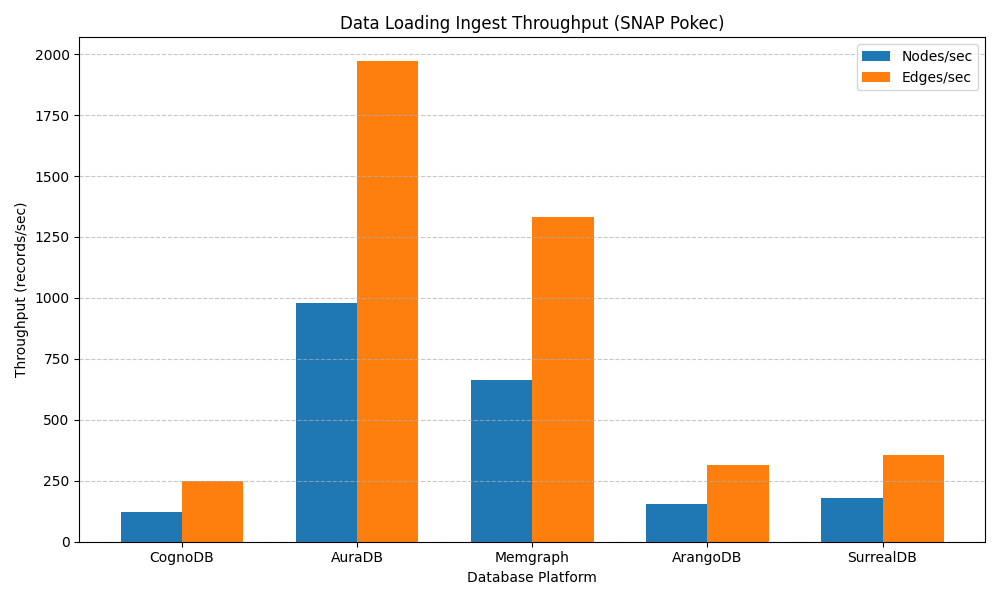
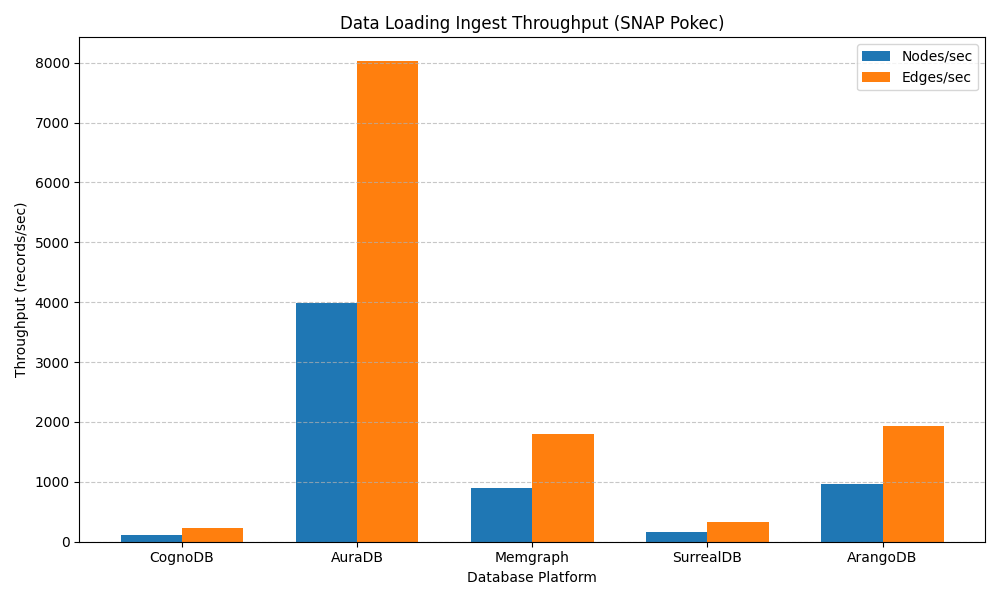
fix: pin deps

diff --git a/rebuild.py b/rebuild.py
@@ -30,7 +30,7 @@ def rebuild_single_service(db_key, nodes, edges, batch_size=1000):
         raise ValueError(f"Unknown database service '{db_key}'. Available: cognodb, auradb, memgraph, surrealdb (or surreal), arangodb (or arango)")
 
     adapter_cls = ADAPTER_MAP[key_clean]
-    adapter = adapter_cls()
+    adapter = adapter_cls(apply_cpu_throttling=False) if key_clean == 'cognodb' else adapter_cls()
 
     print(f"\n==========================================")
     print(f"  Rebuilding Database: {adapter.name}")

diff --git a/db_adapters/auradb_adapter.py b/db_adapters/auradb_adapter.py
@@ -42,6 +42,10 @@ class AuraDBAdapter(BaseDBAdapter):
 
             session.run('CREATE INDEX person_id_idx IF NOT EXISTS FOR (p:Person) ON (p.id)')
             session.run('CREATE INDEX person_filter_idx IF NOT EXISTS FOR (p:Person) ON (p.age, p.region)')
+            try:
+                session.run('CALL db.awaitIndexes(300)')
+            except Exception:
+                pass
 
             for i in range(0, len(edges), batch_size):
                 batch = edges[i:i + batch_size]

diff --git a/README.md b/README.md
@@ -1,4 +1,4 @@
-# Graph Database Cloud Benchmarking: CognoDB vs. Competitors
+# Benchmarking CognoDB vs. other Graph Managed Databases
 
 In this repo, we created a reproducible benchmark suite comparing CognoDB Cloud against managed graph database cloud platforms (Neo4j AuraDB, Memgraph Cloud, ArangoDB Cloud, and SurrealDB Cloud) using identical datasets and query workloads under strict resource parity.
 
@@ -122,7 +122,7 @@ The benchmark execution script (`benchmark.py`) and database reset script (`rebu
 | `benchmark.py` | `--edges`              | int    | `100000`  | Number of relationships to sample from the SNAP Pokec dataset.                            |
 | `benchmark.py` | `--iterations`         | int    | `100`     | Number of query iterations per read workload after warmup.                                |
 | `benchmark.py` | `--results-dir`        | string | `results` | Output directory for CSV metrics matrix and generated PNG charts.                         |
-| `benchmark.py` | `apply_cpu_throttling` | bool   | `True`    | Toggles inter-query CPU duty-cycle throttling (`apply_cpu_throttling=False` disables it). |
+| `benchmark.py` | `--apply-cpu-throttling` | bool   | `True`    | Toggles inter-query CPU duty-cycle throttling (`apply_cpu_throttling=False` disables it). |
 | `rebuild.py`   | `--services`           | list   | `all`     | Target databases to wipe and repopulate.                                                  |
 | `rebuild.py`   | `--nodes`              | int    | `20000`   | Target node count to populate during database rebuild.                                    |
 | `rebuild.py`   | `--edges`              | int    | `100000`  | Target relationship count to populate during database rebuild.                            |
@@ -134,20 +134,20 @@ Note that we use default of 100K minimal relationship. This will still take abou
 
 ### Results Matrix
 
-| Metric                             | CognoDB           | AuraDB         | Memgraph          | SurrealDB           | ArangoDB        |
-| :--------------------------------- | :---------------- | :------------- | :---------------- | :------------------ | :-------------- |
-| **Load Time (sec)**                | 403.75            | 50.75          | 74.98             | 280.00              | 319.35          |
-| **Ingest Nodes/sec**               | 123.1             | 978.9          | 662.6             | 177.4               | 155.6           |
-| **Ingest Edges/sec**               | 247.7             | 1,970.4        | 1,333.6           | 357.1               | 313.1           |
-| **1-Hop p50 / p95 (ms)**           | 235.08 / 294.94   | 25.94 / 38.24  | 261.53 / 1,053.77 | 1,110.50 / 2,089.48 | 259.47 / 281.25 |
-| **2-Hop p50 / p95 (ms)**           | 237.53 / 306.00   | 25.08 / 73.95  | 261.60 / 1,080.90 | 1,101.43 / 2,208.88 | 256.67 / 268.81 |
-| **3-Hop p50 / p95 (ms)**           | 237.71 / 321.45   | 25.87 / 275.09 | 261.24 / 1,052.04 | 1,094.67 / 1,133.31 | 258.04 / 284.70 |
-| **Point Lookup p50 / p95 (ms)**    | 237.53 / 289.60   | 26.67 / 48.02  | 259.90 / 1,047.46 | 1,093.97 / 1,142.88 | 258.90 / 288.19 |
-| **Filtered Lookup p50 / p95 (ms)** | 238.01 / 1,209.11 | 23.85 / 55.16  | 260.47 / 1,211.07 | 1,096.45 / 1,185.23 | 258.35 / 274.72 |
-| **Aggregation p50 / p95 (ms)**     | 440.52 / 1,130.67 | 46.83 / 73.61  | 281.05 / 1,044.79 | 1,098.59 / 1,196.66 | 271.33 / 425.50 |
-| **Mixed 1 Client (QPS)**           | 0.6               | 31.0           | 2.2               | 0.6                 | 4.0             |
-| **Mixed 10 Clients (QPS)**         | 9.4               | 410.6          | 11.0              | 4.2                 | 38.0            |
-| **Mixed 40 Clients (QPS)**         | 37.4              | 1,224.8        | 44.4              | 10.8                | 152.0           |
+| Metric                             | CognoDB           | AuraDB         | Memgraph        | SurrealDB           | ArangoDB        |
+| :--------------------------------- | :---------------- | :------------- | :-------------- | :------------------ | :-------------- |
+| **Load Time (sec)**                | 433.49            | 12.47          | 55.52           | 307.02              | 51.57           |
+| **Ingest Nodes/sec**               | 114.6             | 3,985.5        | 894.9           | 161.8               | 963.4           |
+| **Ingest Edges/sec**               | 230.7             | 8,021.8        | 1,801.1         | 325.7               | 1,939.0         |
+| **1-Hop p50 / p95 (ms)**           | 256.52 / 443.56   | 23.45 / 28.57  | 269.01 / 410.27 | 1,304.94 / 2,031.93 | 259.28 / 333.79 |
+| **2-Hop p50 / p95 (ms)**           | 272.73 / 545.52   | 23.54 / 29.49  | 276.82 / 357.34 | 1,158.61 / 1,300.57 | 261.48 / 346.63 |
+| **3-Hop p50 / p95 (ms)**           | 286.39 / 511.00   | 22.57 / 27.42  | 300.62 / 350.06 | 1,377.56 / 1,992.83 | 255.18 / 475.01 |
+| **Point Lookup p50 / p95 (ms)**    | 269.68 / 364.24   | 24.95 / 34.45  | 277.90 / 365.42 | 1,199.01 / 1,829.44 | 262.52 / 405.02 |
+| **Filtered Lookup p50 / p95 (ms)** | 280.74 / 1,410.51 | 24.56 / 57.14  | 305.28 / 360.08 | 1,559.70 / 1,966.50 | 263.96 / 349.32 |
+| **Aggregation p50 / p95 (ms)**     | 425.57 / 1,255.69 | 45.25 / 61.71  | 271.39 / 341.46 | 1,613.52 / 1,833.18 | 306.70 / 437.11 |
+| **Mixed 1 Client (QPS)**           | 0.4               | 41.0           | 3.0             | 0.8                 | 3.6             |
+| **Mixed 10 Clients (QPS)**         | 8.2               | 315.4          | 28.0            | 6.0                 | 34.4            |
+| **Mixed 40 Clients (QPS)**         | 30.0              | 203.8          | 128.8           | 8.0                 | 105.8           |
 
 ### Performance Charts
 
@@ -171,31 +171,31 @@ Note that we use default of 100K minimal relationship. This will still take abou
 
 ### Data Ingest Throughput
 
-- **AuraDB and Memgraph** completed data loading in 50.75s (1,970.4 edges/sec) and 74.98s (1,333.6 edges/sec) respectively by processing bulk stream vectors in native memory.
-- **SurrealDB and ArangoDB** loaded in 280.00s (357.1 edges/sec) and 319.35s (313.1 edges/sec) due to document table mapping and SQL parsing overhead during bulk insertion.
-- **CognoDB** required 403.75s (247.7 edges/sec). Ingestion used 250-item sub-batches with reconnect handling under cloud socket pressure, plus Cypher endpoint lookup overhead per `MATCH...CREATE` relation statement.
+- **AuraDB and ArangoDB** achieved fast bulk data loading times of 12.47s (8,021.8 edges/sec) and 51.57s (1,939.0 edges/sec) respectively. Memgraph completed data loading in 55.52s (1,801.1 edges/sec).
+- **SurrealDB** required 307.02s (325.7 edges/sec) due to document table mapping and SQL statement processing overhead during bulk insertion.
+- **CognoDB** required 433.49s (230.7 edges/sec). Ingestion used batching with reconnect handling under cloud socket pressure, plus Cypher endpoint lookup overhead per relation statement.
 
 ### Traversal Performance & Tail Latencies
 
-- **AuraDB** delivered ~25ms p50 across 1-hop, 2-hop, and 3-hop queries due to pointer-chaining indexless adjacency.
-- **CognoDB** maintained steady median latencies (~235 to 237ms p50) across 1-hop, 2-hop, and 3-hop queries, with p95 tail latencies bounded between 294ms and 321ms.
-- **ArangoDB** demonstrated flat, consistent latency profiles (~256 to 259ms p50, 268 to 284ms p95) across all hop depths.
-- **Memgraph** logged fast p50 traversals (~261ms) but hit p95 tail latency spikes over 1,050ms across traversal runs under free-tier memory buffer constraints.
-- **SurrealDB** averaged over 1,090ms p50 across all hop depths (with 2-hop p95 reaching 2,208.88ms) because graph traversals execute via relational table joins under its free-tier engine.
+- **AuraDB** delivered ~22 to 23ms p50 across 1-hop, 2-hop, and 3-hop queries with low tail latencies (p95 under 30ms) due to pointer-chaining indexless adjacency.
+- **CognoDB** maintained median latencies between 256.52ms and 286.39ms p50 across 1-hop, 2-hop, and 3-hop queries, with p95 tail latencies bounded between 443.56ms and 545.52ms.
+- **ArangoDB** demonstrated consistent median latencies (~255 to 261ms p50) across all hop depths with p95 bounded between 333.79ms and 475.01ms.
+- **Memgraph** logged median traversals between 269.01ms (1-hop) and 300.62ms (3-hop) with p95 tail latencies between 350.06ms and 410.27ms.
+- **SurrealDB** averaged between 1,158.61ms and 1,377.56ms p50 across hop depths (with 1-hop p95 reaching 2,031.93ms) because graph traversals execute via relational table joins under its engine.
 
 ### Lookups & Aggregations
 
-- **Point Lookups**: AuraDB completed point lookups in 26.67ms p50. CognoDB (237.53ms p50), ArangoDB (258.90ms p50), and Memgraph (259.90ms p50) were bound primarily by network TLS transport to US East endpoints. SurrealDB averaged 1,093.97ms p50.
-- **Filtered Lookups**: CognoDB (238.01ms p50) and Memgraph (260.47ms p50) both experienced p95 tail latency spikes (~1,209ms and ~1,211ms) when non-selective compound filters triggered scan fallbacks. ArangoDB maintained 258.35ms p50 and 274.72ms p95.
-- **Aggregations**: AuraDB led at 46.83ms p50. ArangoDB and Memgraph logged 271.33ms and 281.05ms p50. CognoDB recorded 440.52ms p50 (1,130.67ms p95) due to full label scanning under 0.25 vCPU throttling. SurrealDB took 1,098.59ms p50.
+- **Point Lookups**: AuraDB completed point lookups in 24.95ms p50 (34.45ms p95). ArangoDB (262.52ms p50), CognoDB (269.68ms p50), and Memgraph (277.90ms p50) were bound primarily by network TLS transport to US East endpoints. SurrealDB averaged 1,199.01ms p50.
+- **Filtered Lookups**: AuraDB led at 24.56ms p50 (57.14ms p95). ArangoDB (263.96ms p50) and Memgraph (305.28ms p50) maintained tight tail latencies (~349ms and ~360ms p95), while CognoDB (280.74ms p50) experienced a p95 tail latency spike of 1,410.51ms on complex filter evaluations. SurrealDB logged 1,559.70ms p50.
+- **Aggregations**: AuraDB led at 45.25ms p50 (61.71ms p95). Memgraph and ArangoDB logged 271.39ms and 306.70ms p50. CognoDB recorded 425.57ms p50 (1,255.69ms p95) due to label scanning under CPU duty-cycle regulation. SurrealDB took 1,613.52ms p50.
 
 ### Concurrency Scaling (80% Read / 20% Write)
 
-- **AuraDB** scaled linearly from 31.0 QPS (1 client) to 410.6 QPS (10 clients) and 1,224.8 QPS (40 clients) due to lock-free transaction scheduling.
-- **ArangoDB** scaled to 152.0 QPS at 40 clients.
-- **Memgraph** scaled to 44.4 QPS at 40 clients.
-- **CognoDB** scaled from 0.6 QPS at 1 client to 9.4 QPS at 10 clients and 37.4 QPS at 40 clients under concurrent write-lock scheduling.
-- **SurrealDB** scaled from 0.6 QPS (1 client) to 4.2 QPS (10 clients) and 10.8 QPS (40 clients).
+- **AuraDB** delivered 41.0 QPS at 1 client, peaked at 315.4 QPS at 10 clients, and registered 203.8 QPS at 40 clients under connection pool constraints.
+- **Memgraph** scaled from 3.0 QPS (1 client) to 28.0 QPS (10 clients) and 128.8 QPS (40 clients).
+- **ArangoDB** scaled from 3.6 QPS (1 client) to 34.4 QPS (10 clients) and 105.8 QPS (40 clients).
+- **CognoDB** scaled from 0.4 QPS at 1 client to 8.2 QPS at 10 clients and 30.0 QPS at 40 clients under concurrent write-lock scheduling.
+- **SurrealDB** scaled from 0.8 QPS (1 client) to 6.0 QPS (10 clients) and 8.0 QPS (40 clients).
 
 ## Threats to Validity
 
